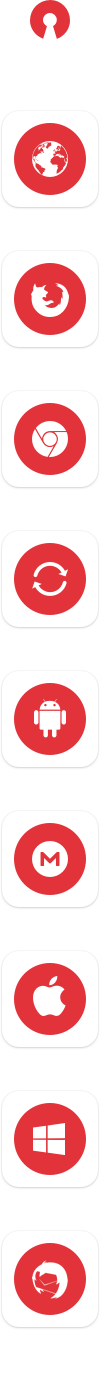
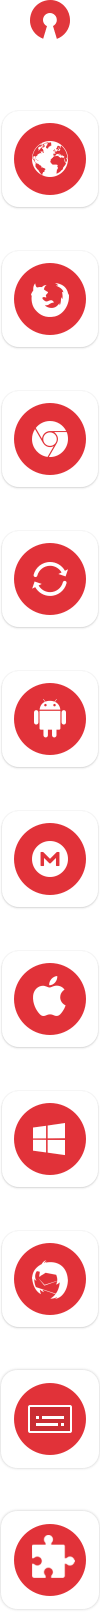
WEB-14532: Enhancement: Add MEGACmd source code to sourcecode page

diff --git a/html/sourcecode.html b/html/sourcecode.html
@@ -60,6 +60,10 @@
                         <a href="https://github.com/meganz/iOS3" target="_blank" rel="noopener noreferrer" class="opensource-icon ios"></a>
                         <a href="https://github.com/meganz/iOS3" class="opensource-icon-txt" target="_blank" rel="noopener noreferrer">[$1889]<br></a>
                     </div>
+                    <div class="opensource-icon-pad">
+                        <a href="https://github.com/meganz/MEGAcmd" target="_blank" rel="noopener noreferrer" class="opensource-icon cmd"></a>
+                        <a href="https://github.com/meganz/MEGAcmd" class="opensource-icon-txt" target="_blank" rel="noopener noreferrer">MEGA CMD<br></a>
+                    </div>
                     <div class="clear"></div>
                 </div>
             </div>

diff --git a/css/bottom-pages.css b/css/bottom-pages.css
@@ -3983,6 +3983,9 @@ body:not(.mobile) .securitypractice .business-text a.red:hover {
 .opensource-icon.ios {
     background-position: center -950px;
 }
+.opensource-icon.cmd {
+    background-position: center -1369px;
+}
 .opensource-icon.windowsphone {
     background-position: center -1090px;
 }
